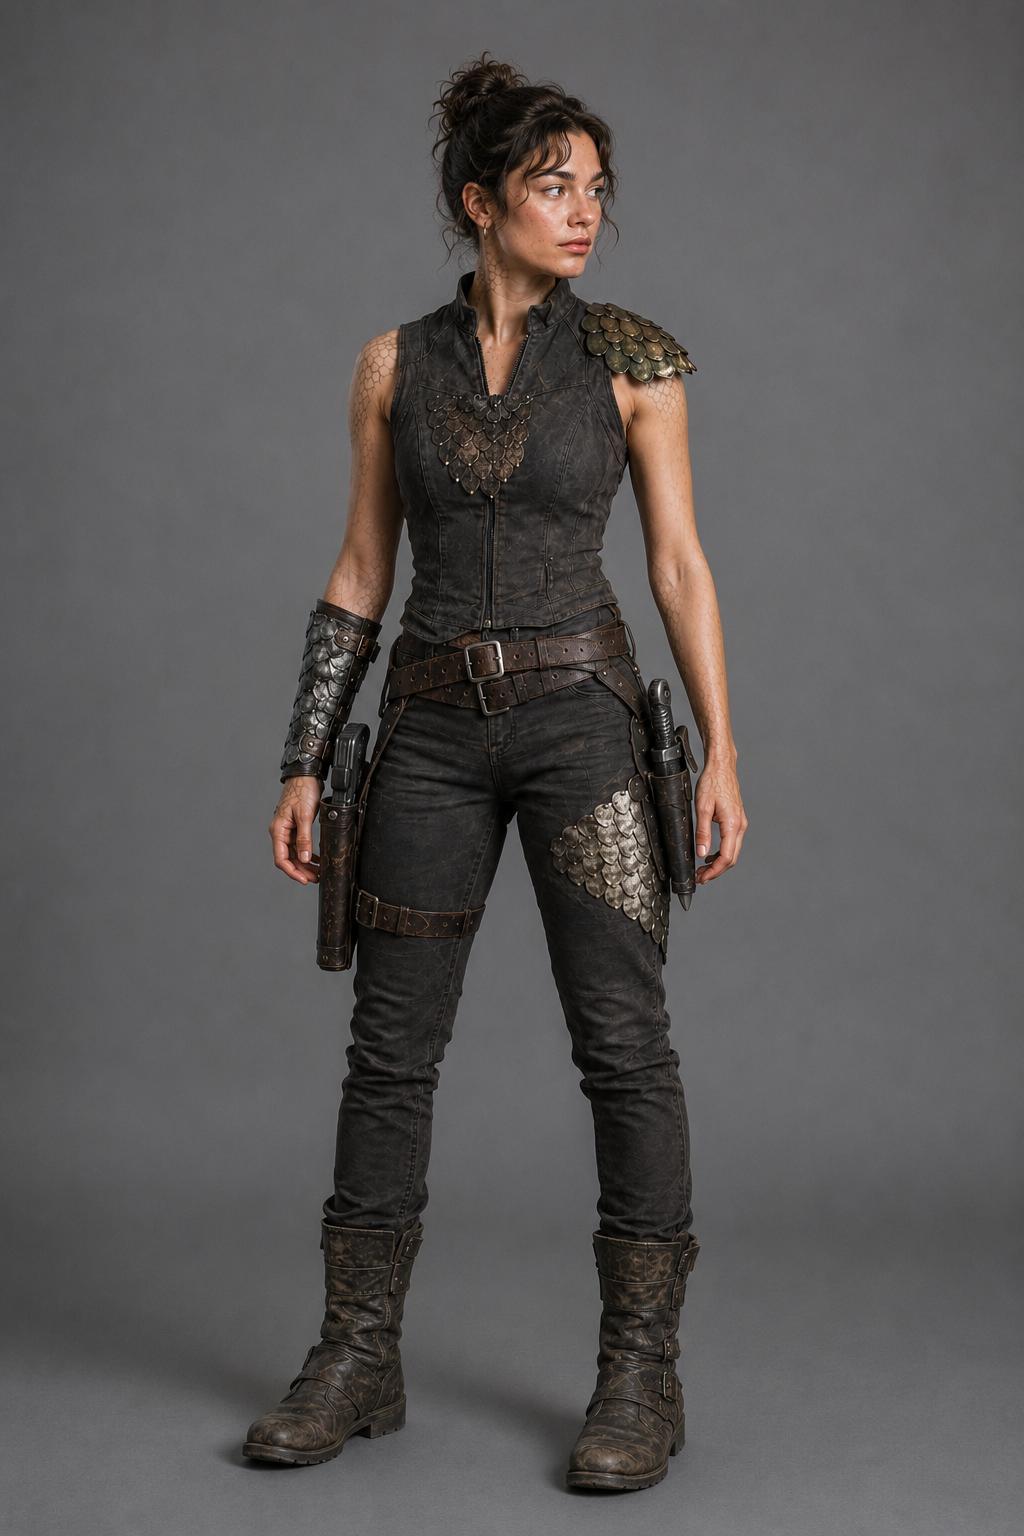
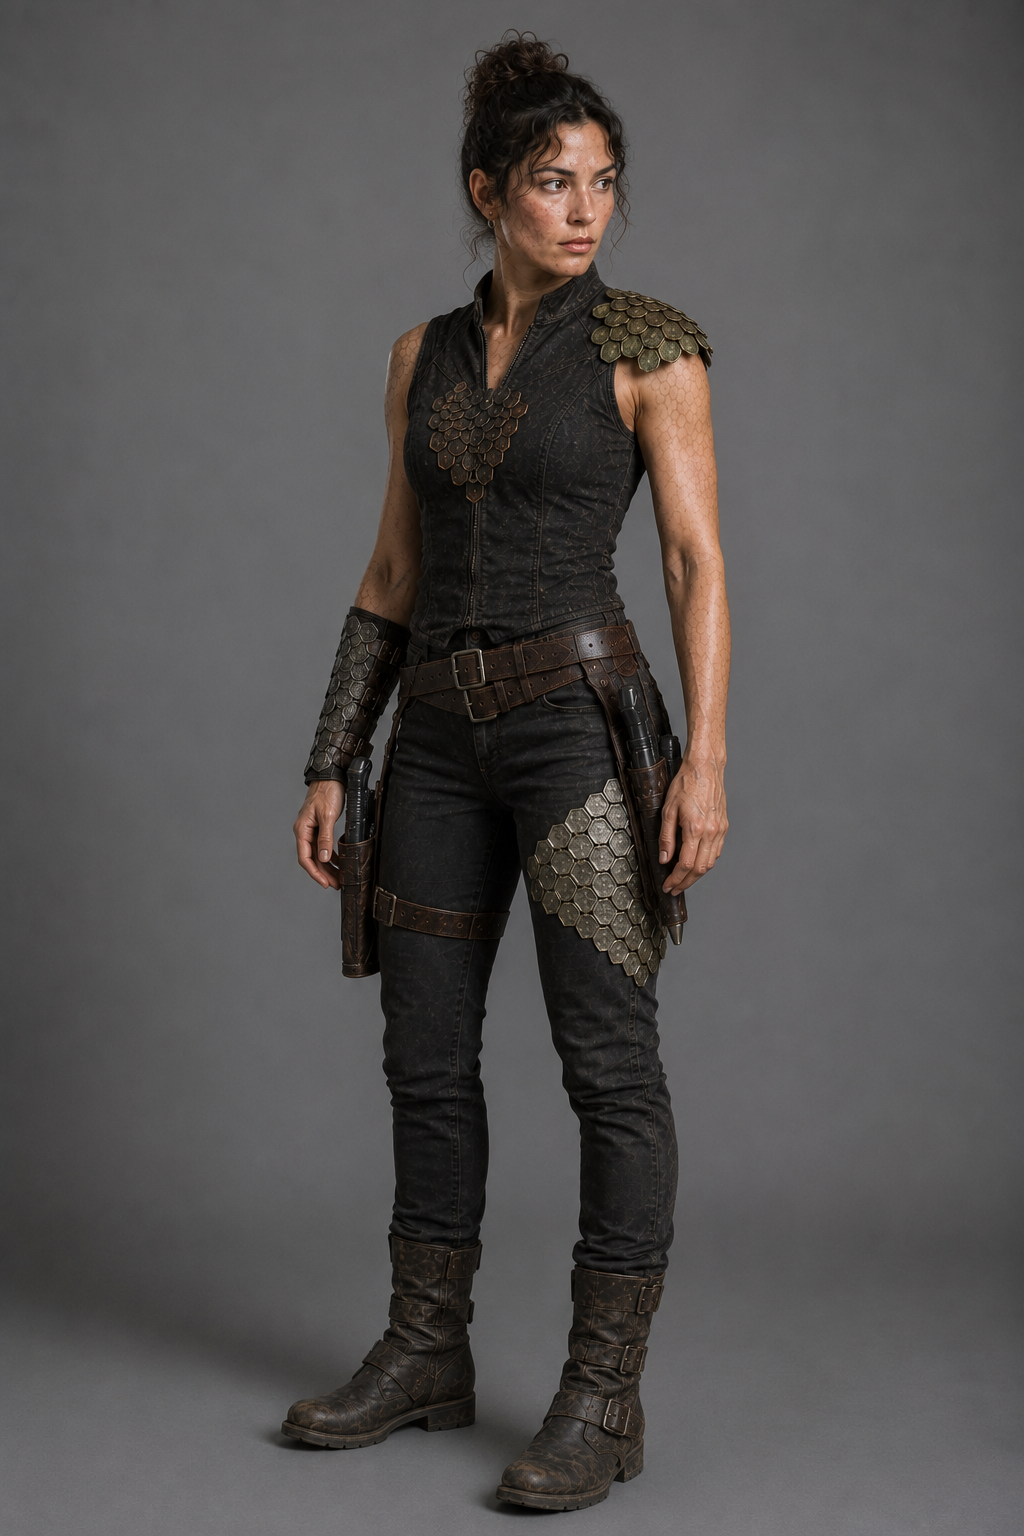
fix(shada): repair a mangled sentence in the material-scale prompt
Spotted on read-through: "Flat six-sided metal plates, each about the size of a
hexagon about the width of two fingers". A leftover fragment from the earlier
scripted replacement, where the new text was spliced in without the old opening
clause being removed.

Overlapping was correct and stays — the plates do lap each row over the one
below by about a third, and tiled flat edge to edge would be wrong. It was only
the shape language that needed removing.

The shape prohibition in that slot now matches the wording used everywhere else:
six straight sides, never round, never a coin, never a teardrop, never a
fish-scale shape, and the overlap does not change the shape.

Scanned the rest of the passages touched in that batch for the same class of
damage; found only a bad line wrap in outfits.yaml, tidied. Self-test passes,
boards validate, zero consistency warnings.

Claude-Session: https://claude.ai/code/session_01HF8D7EK1ZtGbLYRjq6otZ4

Changed region(s): [[0.2188, 0.0, 0.75, 1.0]]

diff --git a/03-characters/shada/Prompts.md b/03-characters/shada/Prompts.md
@@ -444,11 +444,13 @@ ceiling, no structure enclosing her. Unhurried, ordinary, routine.
 **Square, 1:1.**
 
 Extreme close-up macro photograph of a section of the scale armour, lying flat on
-a plain neutral surface. Flat six-sided metal plates, each about the size of a
-hexagon about the width of two fingers, laced onto a leather backing and
-overlapped so each row laps the top edge of the row below by about a third,
-filling the frame. SIX STRAIGHT SIDES ON EVERY PLATE — never round, never a
-fish-scale shape. **Every plate carries the same shallow pressed relief
+a plain neutral surface. Flat six-sided metal plates, each about the width of
+two fingers, laced onto a leather backing and overlapped so each row laps the
+top edge of the row below by about a third, filling the frame.
+
+**SIX STRAIGHT SIDES ON EVERY PLATE.** Never round, never a coin, never a
+teardrop, never a fish-scale shape. The plates overlap; the shape does not
+change. **Every plate carries the same shallow pressed relief
 of a coiled serpent** — a worn industrial manufacturer's stamp, softened and
 grimed in the recesses, partly lost on the oldest plates, never crisp or
 ornamental. The plates are cut from salvaged hull plate: mismatched alloys
